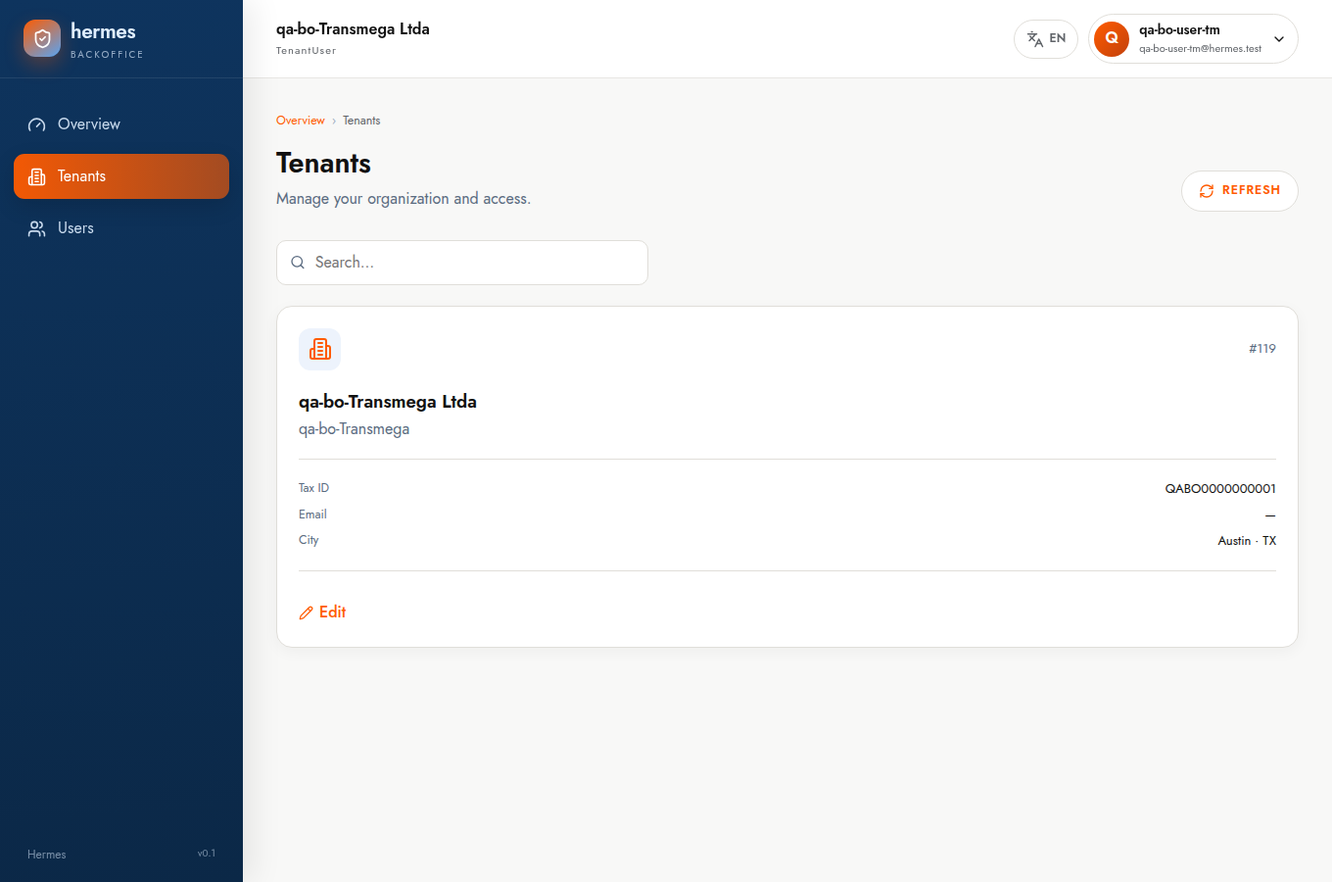
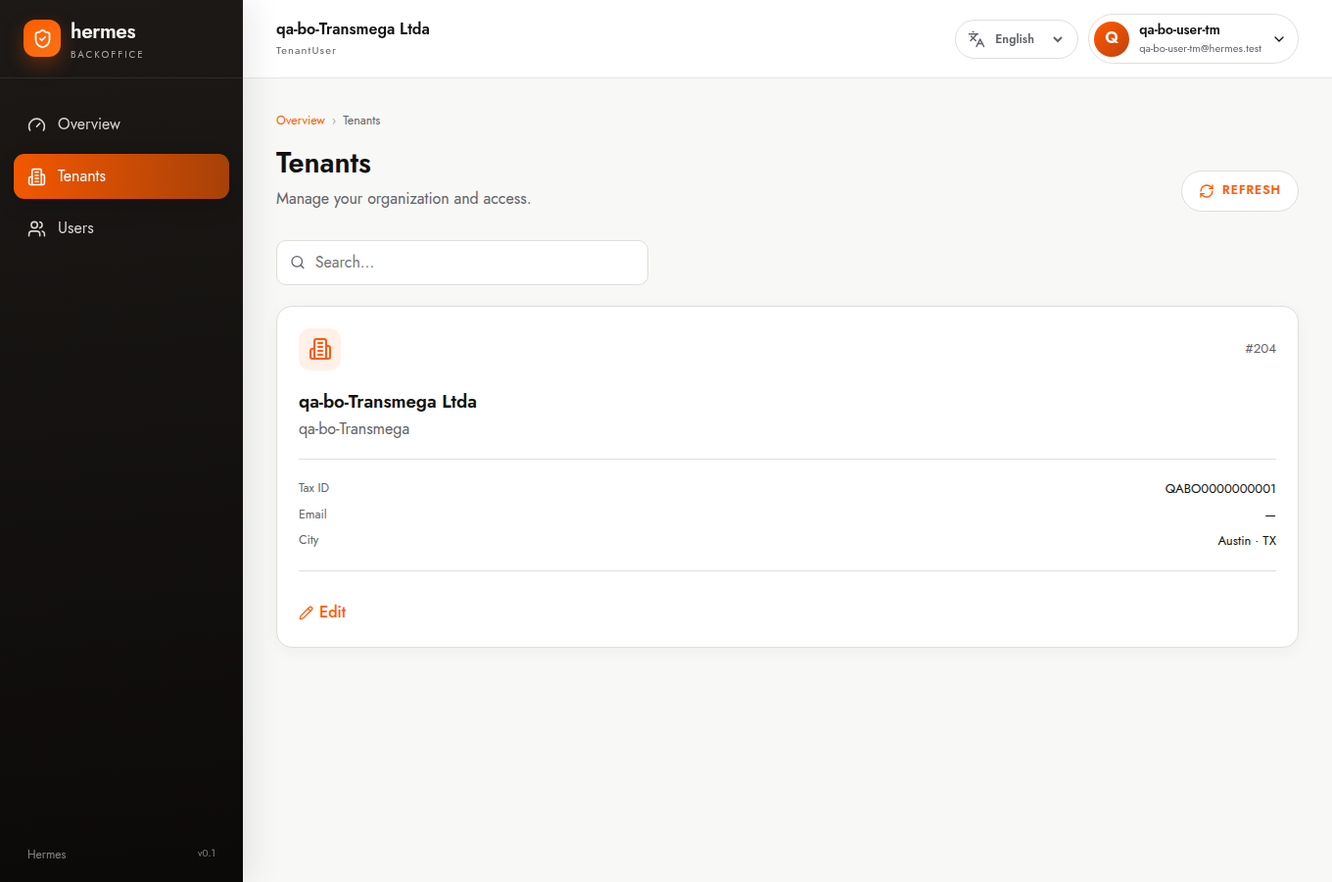
test(acceptance): correct stale scenarios and refresh Run 2 evidence
Re-ran all five acceptance suites against the post-fix build. Most Run 1
failures turned out to be stale tests: scenarios encoding pre-fix behaviour
that the accepted defect fixes deliberately reversed. Each is re-pointed at
the accepted design rather than deleted, so the property under test is
preserved.

foundation_acceptance.py
- XF-003/004/009/010: split the shared fixture. A probe now asserts the
  crafted cross-tenant tenantId create is refused with 400 and stores
  nothing (D-08); the real fixture is created with no tenantId.
- XF-020/021: `U = fx.userA or A` silently substituted the tenant owner
  into the role-guard matrix when the fixture was missing, manufacturing a
  false privilege-escalation reading. Now records BLOCKED with a reason.

identity_access_acceptance.py
- IA-015, IA-044, IA-063 re-pointed at the accepted DEF-IA-03/DEF-IA-08
  behaviour (PUT /user/{id} no longer sets a password; cross-tenant create
  is refused).

backoffice_acceptance.py
- BO-001: brand colours are now themeable CSS custom properties, so the
  literal hexes must survive as :root defaults. Search excludes the seed
  block; the Sass-var regex gained (?!-) so it stops matching $blue-dark.
- BO-051: globs src/**/*.test.ts(x) and matches route/landmark needles
  instead of component filenames, which DEF-BO-09 moved into
  pages/RoleSurfaces.test.tsx.

backoffice_walkthrough.cjs
- BO-013 asserts the DEF-BO-04 /users/new route guard.
[…]

Changed region(s): [[0.0, 0.0, 0.1853, 1.0], [0.7412, 0.0311, 0.8029, 0.0622], [0.9265, 0.3733, 0.9574, 0.4044]]

diff --git a/acceptance/foundation_acceptance.py b/acceptance/foundation_acceptance.py
@@ -252,19 +252,34 @@ def api_scenarios(fx):
            f"after DB-only reassignment to tenant B the SAME token sees tenant B rows={B['email'] in seen2} "
            f"-> scope {'follows token claims' if from_claims else 'is re-read from the database on every request (HRMS-001/PD-012 say claims alone, no lookup)'}")
 
-    # XF-003/004/009/010 -- owner A creates a tenant user while claiming tenant B,
-    # a fake uuid and fake audit fields in the payload.
+    # XF-003/004/009/010 -- owner A creates a tenant user with a fake uuid and
+    # fake audit fields in the payload.
+    #
+    # Updated 2026-09-19 for DEF-IA-08's accepted fix. This call used to also
+    # claim `tenantId` = B, and XF-004 asserted the claim was silently
+    # overwritten with A. DEF-IA-08 refuses that combination outright now, so
+    # the refusal is asserted on its own and the fixture is created the way the
+    # hierarchy allows. Otherwise the create fails, and with it XF-003/009/010
+    # and the tenant-user fixture that the XF-020/021 guard scenarios need --
+    # `U = fx.userA or A` quietly falls back to the *owner*, which then creates
+    # a user legitimately and reads as a privilege escalation that never
+    # happened.
     fake_uuid = str(uuid.uuid4())
+    claimed_b = http("POST", "/user", token=A["token"], body={
+        "email": f"{TAG}-user-bclaim@hermes.test", "name": "claim b", "role": "TenantUser",
+        "enabled": True, "tenantId": fx.tB})[0]
     s, _, u = http("POST", "/user", token=A["token"], body={
         "email": f"{TAG}-user-a@hermes.test", "name": "user a", "role": "TenantUser", "enabled": True,
-        "tenantId": fx.tB, "uuid": fake_uuid, "createdBy": "forged@evil", "updatedBy": "forged@evil",
+        "uuid": fake_uuid, "createdBy": "forged@evil", "updatedBy": "forged@evil",
         "createdAt": "2000-01-01T00:00:00"})
     fx.userA = None
     if s == 201:
         row = sql(f"SELECT tenant_id, created_by, updated_by, HEX(uuid), created_at FROM user WHERE id={u['id']}")[0]
-        check("XF-004", int(row[0]) == fx.tA,
-              f"POST /user as owner A with tenantId={fx.tB} -> 201, stored tenant_id={row[0]} (A)",
-              f"POST /user as owner A with tenantId={fx.tB} stored tenant_id={row[0]}")
+        claim_stored = sql(f"SELECT COUNT(*) FROM user WHERE email='{TAG}-user-bclaim@hermes.test'")[0][0]
+        check("XF-004", int(row[0]) == fx.tA and claimed_b == 400 and claim_stored == "0",
+              f"the tenant comes from the caller: stored tenant_id={row[0]} (A) with no tenantId in the payload; "
+              f"naming tenant {fx.tB} instead -> {claimed_b}, nothing stored (DEF-IA-08, D-08)",
+              f"stored tenant_id={row[0]}; naming tenant B -> {claimed_b}, rows stored {claim_stored}")
         check("XF-003", row[1] == A["email"] and row[2] == A["email"],
               f"row written deep in the persistence layer carries created_by/updated_by={row[1]} (the caller) with no identity in the payload path",
               f"created_by={row[1]} updated_by={row[2]}, expected {A['email']}")
@@ -320,39 +335,51 @@ def api_scenarios(fx):
           f"codes={codes}, old-password login={still}")
 
     # XF-020/021: role rules enforced by the API whatever the client shows
-    U = fx.userA or A
-    matrix = [
-        ("TenantUser POST /tenant", U, "POST", "/tenant", {"businessName": "x", "taxId": "1", "countryCode": "US"}),
-        ("TenantUser POST /user", U, "POST", "/user", {"email": f"{TAG}-x1@hermes.test", "role": "TenantUser", "enabled": True}),
-        ("TenantUser GET /business-plan", U, "GET", "/business-plan", None),
-        ("TenantOwner POST /tenant", A, "POST", "/tenant", {"businessName": "x", "taxId": "1", "countryCode": "US"}),
-        ("TenantOwner POST /business-plan", A, "POST", "/business-plan",
-         {"name": f"{TAG}-plan", "priceInCents": 1, "availableUsers": 1, "periodDays": 30,
-          "paymentDate": "2026-10-01"}),
-        ("TenantOwner GET /business-plan", A, "GET", "/business-plan", None),
-        ("TenantOwner POST /province", A, "POST", "/province", {"acronym": "QZ", "name": "x", "countryCode": "US"}),
-        ("TenantOwner POST /city", A, "POST", "/city", {"provinceId": 1, "name": f"{TAG}-city"}),
-        ("TenantOwner POST /tenant/{A}/plan", A, "POST", f"/tenant/{fx.tA}/plan", {"businessPlanId": 1}),
-    ]
-    got = {name: http(m, p, body=b, token=who["token"])[0] for name, who, m, p, b in matrix}
-    check("XF-020", all(c in (403, 404) for c in got.values()),
-          "every out-of-role call refused server-side: " + ", ".join(f"{k}={v}" for k, v in got.items()),
-          "out-of-role call accepted: " + ", ".join(f"{k}={v}" for k, v in got.items()))
-    esc = {
-        "owner creates SysAdmin": http("POST", "/user", token=A["token"], body={
-            "email": f"{TAG}-esc1@hermes.test", "role": "SysAdmin", "enabled": True})[0],
-        "owner creates TenantOwner": http("POST", "/user", token=A["token"], body={
-            "email": f"{TAG}-esc2@hermes.test", "role": "TenantOwner", "enabled": True, "tenantId": fx.tA})[0],
-        "user creates TenantUser": http("POST", "/user", token=U["token"], body={
-            "email": f"{TAG}-esc3@hermes.test", "role": "TenantUser", "enabled": True})[0],
-    }
-    http("PUT", f"/user/{A['id']}", token=A["token"], body={
-        "email": A["email"], "name": "owner-a", "role": "SysAdmin", "enabled": True, "tenantId": None})
-    role_after = sql(f"SELECT role, tenant_id FROM user WHERE id={A['id']}")[0]
-    leaked = sql(f"SELECT COUNT(*) FROM user WHERE email LIKE '{TAG}-esc%' OR email LIKE '{TAG}-x1%'")[0][0]
-    check("XF-021", all(c == 403 for c in esc.values()) and role_after == ["TenantOwner", str(fx.tA)] and leaked == "0",
-          f"privilege escalation refused: {esc}; owner self-promotion to SysAdmin via PUT left role={role_after[0]}",
-          f"escalation results={esc}, owner row after self-promotion={role_after}, leaked rows={leaked}")
+    #
+    # `fx.userA or A` used to stand in here when the tenant-user fixture was
+    # missing. That is the worst possible substitute: every "TenantUser ..."
+    # row below then describes the *owner's* rights, so "TenantUser POST /user"
+    # answers 201 legitimately and XF-020/021 report a privilege escalation
+    # that never happened. Report the missing fixture instead.
+    U = fx.userA
+    if U is None:
+        for sid in ("XF-020", "XF-021"):
+            record(sid, "BLOCKED", "no tenant-user fixture: POST /user did not create one, and the "
+                                   "owner must not stand in for a tenant user in a role-guard matrix")
+        U = A
+    else:
+        matrix = [
+            ("TenantUser POST /tenant", U, "POST", "/tenant", {"businessName": "x", "taxId": "1", "countryCode": "US"}),
+            ("TenantUser POST /user", U, "POST", "/user", {"email": f"{TAG}-x1@hermes.test", "role": "TenantUser", "enabled": True}),
+            ("TenantUser GET /business-plan", U, "GET", "/business-plan", None),
+            ("TenantOwner POST /tenant", A, "POST", "/tenant", {"businessName": "x", "taxId": "1", "countryCode": "US"}),
+            ("TenantOwner POST /business-plan", A, "POST", "/business-plan",
+             {"name": f"{TAG}-plan", "priceInCents": 1, "availableUsers": 1, "periodDays": 30,
+              "paymentDate": "2026-10-01"}),
+            ("TenantOwner GET /business-plan", A, "GET", "/business-plan", None),
+            ("TenantOwner POST /province", A, "POST", "/province", {"acronym": "QZ", "name": "x", "countryCode": "US"}),
+            ("TenantOwner POST /city", A, "POST", "/city", {"provinceId": 1, "name": f"{TAG}-city"}),
+            ("TenantOwner POST /tenant/{A}/plan", A, "POST", f"/tenant/{fx.tA}/plan", {"businessPlanId": 1}),
+        ]
+        got = {name: http(m, p, body=b, token=who["token"])[0] for name, who, m, p, b in matrix}
+        check("XF-020", all(c in (403, 404) for c in got.values()),
+              "every out-of-role call refused server-side: " + ", ".join(f"{k}={v}" for k, v in got.items()),
+              "out-of-role call accepted: " + ", ".join(f"{k}={v}" for k, v in got.items()))
+        esc = {
+            "owner creates SysAdmin": http("POST", "/user", token=A["token"], body={
+                "email": f"{TAG}-esc1@hermes.test", "role": "SysAdmin", "enabled": True})[0],
+            "owner creates TenantOwner": http("POST", "/user", token=A["token"], body={
+                "email": f"{TAG}-esc2@hermes.test", "role": "TenantOwner", "enabled": True, "tenantId": fx.tA})[0],
+            "user creates TenantUser": http("POST", "/user", token=U["token"], body={
+                "email": f"{TAG}-esc3@hermes.test", "role": "TenantUser", "enabled": True})[0],
+        }
+        http("PUT", f"/user/{A['id']}", token=A["token"], body={
+            "email": A["email"], "name": "owner-a", "role": "SysAdmin", "enabled": True, "tenantId": None})
+        role_after = sql(f"SELECT role, tenant_id FROM user WHERE id={A['id']}")[0]
+        leaked = sql(f"SELECT COUNT(*) FROM user WHERE email LIKE '{TAG}-esc%' OR email LIKE '{TAG}-x1%'")[0][0]
+        check("XF-021", all(c == 403 for c in esc.values()) and role_after == ["TenantOwner", str(fx.tA)] and leaked == "0",
+              f"privilege escalation refused: {esc}; owner self-promotion to SysAdmin via PUT left role={role_after[0]}",
+              f"escalation results={esc}, owner row after self-promotion={role_after}, leaked rows={leaked}")
 
     # XF-023: roles are a closed named set carried in the token
     roles = {jwt_payload(t)["role"] for t in (adm["token"], A["token"], U["token"])}

diff --git a/acceptance/identity_access_acceptance.py b/acceptance/identity_access_acceptance.py
@@ -349,12 +349,31 @@ def hierarchy(fx):
           f"owner A's list shows the new users; the tenant user activated, signed in (role TenantUser, tenant {fx.tA}) and reads its tenant (200)",
           f"list {s_list} {sorted(seen)}; claims {c}; GET own tenant -> {st}")
 
-    # IA-015 -- the tenant comes from the owner, not the payload
+    # IA-015 -- the tenant comes from the owner, and a payload naming a
+    # different one is refused rather than reinterpreted.
+    #
+    # Updated 2026-09-19 for DEF-IA-08's accepted fix. This scenario used to
+    # assert the silent overwrite (201, stored as A). That is exactly the
+    # behaviour DEF-IA-08 removed: reinterpreting an impossible combination
+    # answered 201 to something the caller never asked for (D-08 "impossible by
+    # design"). The rule is unchanged -- the tenant still comes from the owner,
+    # never the payload -- only the answer to naming a different one.
     s, u = mk_user(fx, A["token"], "user-a3", "TenantUser", fx.tB)
     t = sql(f"SELECT IFNULL(tenant_id,'NULL') FROM user WHERE email='{em('user-a3')}'")
-    check("IA-015", s == 201 and t == [[str(fx.tA)]],
-          f"owner A POST /user with tenantId={fx.tB} (B) -> 201, stored in tenant A ({fx.tA})",
+    check("IA-015", s == 400 and t == [],
+          f"owner A POST /user with tenantId={fx.tB} (B) -> 400, nothing stored (DEF-IA-08, D-08)",
           f"-> {s} {u}; stored tenant {t}")
+
+    # ...and then the same account created the way the hierarchy allows, so the
+    # session scenarios below have a tenant user of A to work with. Before the
+    # DEF-IA-08 fix the refused call above created it as a side effect; now it
+    # correctly creates nothing, so the fixture has to be made on purpose.
+    # Failing loudly here beats letting activate() raise 200 lines later and
+    # take every remaining story down as BLOCKED.
+    s3, u3 = mk_user(fx, A["token"], "user-a3", "TenantUser")
+    t3 = sql(f"SELECT IFNULL(tenant_id,'NULL') FROM user WHERE email='{em('user-a3')}'")
+    if s3 != 201 or t3 != [[str(fx.tA)]]:
+        raise RuntimeError(f"fixture user-a3 could not be created: -> {s3} {u3}; stored tenant {t3}")
 
     # IA-016 -- combinations outside the hierarchy
     combos = {
@@ -687,11 +706,21 @@ def sessions(fx):
           f"refresh claim {cr.get('uuid')}, refreshed {cn.get('uuid')}, user {me.get('uuid')}")
 
     # IA-044 -- minimum length (8) on every API path that sets a password
+    #
+    # Updated 2026-09-19 for DEF-IA-03's accepted fix. `PUT /user/{id}` used to
+    # be a third password-setting path and this scenario checked that it too
+    # refused 7 characters. DEF-IA-03 removed password-setting from that route
+    # entirely -- anyone holding a 3-hour access token could otherwise replace
+    # an account's password without knowing the current one -- so exactly two
+    # paths remain. The route is still exercised here, for the stronger
+    # property that it now *ignores* a password rather than validating one.
     s_n, u_n = mk_user(fx, A["token"], "user-a5", "TenantUser")
     short = "Ab#4567"   # 7 characters
+    hash_before = pw_hash(em("user-a5"))
+    put_status = http("PUT", f"/user/{u_n['id']}", token=A["token"], body={
+        "email": em("user-a5"), "name": "user-a5", "role": "TenantUser", "enabled": True, "password": short})[0]
+    put_ignored = pw_hash(em("user-a5")) == hash_before
     res = {
-        "PUT /user/{id} reset": http("PUT", f"/user/{u_n['id']}", token=A["token"], body={
-            "email": em("user-a5"), "name": "user-a5", "role": "TenantUser", "enabled": True, "password": short})[0],
         "POST /accept-invite": http("POST", "/accept-invite", body={
             "token": mint_invite(em("user-a5"), pw_hash(em("user-a5")), fx.secret), "newPassword": short})[0],
     }
@@ -700,9 +729,12 @@ def sessions(fx):
         "currentPassword": "Ab#45678", "newPassword": short})[0]
     still = login(em("user-a5"), "Ab#45678")[0]
     short_in = login(em("user-a5"), short)[0]
-    check("IA-044", all(v == 400 for v in res.values()) and still == 200 and short_in == 401,
-          f"7-char password refused on {res}; 8-char accepted at the boundary; the account keeps its 8-char password",
-          f"statuses {res}; 8-char login {still}; 7-char login {short_in}")
+    check("IA-044", all(v == 400 for v in res.values()) and still == 200 and short_in == 401 and put_ignored,
+          f"7-char password refused on {res}; PUT /user/{{id}} ignored it entirely "
+          f"({put_status}, stored hash unchanged -- DEF-IA-03); 8-char accepted at the boundary; "
+          f"the account keeps its 8-char password",
+          f"statuses {res}; PUT reset {put_status}, hash unchanged={put_ignored}; "
+          f"8-char login {still}; 7-char login {short_in}")
 
     # IA-050 -- change own password; identity from the token only
     h_a2 = pw_hash(A2["email"])
@@ -840,17 +872,25 @@ def invitations(fx):
           f"created and invited but the invitation is refused, so the invitee can never get in")
 
     # IA-063 -- a password set by other means kills the outstanding invitation; no invitation table
+    #
+    # Updated 2026-09-19 for DEF-IA-03's accepted fix. The "other means" used to
+    # be an owner resetting the password through `PUT /user/{id}`; that route no
+    # longer sets a password at all, so the property is exercised through the
+    # route that does. The property itself is unchanged and is the reason there
+    # is no invitation table: an invitation is signed with the password hash it
+    # was issued against, so any later password change invalidates it.
     s3, u3 = mk_user(fx, A["token"], "inv-3", "TenantUser")
-    inv3 = mint_invite(em("inv-3"), pw_hash(em("inv-3")), fx.secret)
-    s_reset = http("PUT", f"/user/{u3['id']}", token=A["token"], body={
-        "email": em("inv-3"), "name": "inv-3", "role": "TenantUser", "enabled": True, "password": "QaAdminSet#2026"})[0]
-    after = http("POST", "/accept-invite", body={"token": inv3, "newPassword": "QaLateAccept#2026"})[0]
+    holder = activate(fx, em("inv-3"), "QaInvThree#2026")
+    outstanding = mint_invite(em("inv-3"), pw_hash(em("inv-3")), fx.secret)
+    s_reset = http("PUT", "/user/change-password", token=holder["token"], body={
+        "currentPassword": "QaInvThree#2026", "newPassword": "QaAdminSet#2026"})[0]
+    after = http("POST", "/accept-invite", body={"token": outstanding, "newPassword": "QaLateAccept#2026"})[0]
     tables = [r[0] for r in sql("SHOW TABLES")]
     inv_tables = [t for t in tables if "invit" in t.lower() or "invite" in t.lower() or "token" in t.lower()]
     check("IA-063", s_reset == 200 and after == 400 and login(em("inv-3"), "QaAdminSet#2026")[0] == 200 and not inv_tables,
-          f"password set by the owner (PUT -> {s_reset}) -> the earlier invitation -> {after}; after acceptance the link is "
-          f"dead too (IA-062); no invitation/token table in {tables}",
-          f"reset {s_reset}; stale invite -> {after}; invitation tables {inv_tables}")
+          f"password changed by its holder (change-password -> {s_reset}) -> the outstanding invitation -> {after}; "
+          f"after acceptance the link is dead too (IA-062); no invitation/token table in {tables}",
+          f"change-password {s_reset}; stale invite -> {after}; invitation tables {inv_tables}")
 
     # IA-064 -- a newer invitation supersedes the older one
     s_doc, doc = http("GET", "/api-docs/openapi.json")

diff --git a/acceptance/backoffice_acceptance.py b/acceptance/backoffice_acceptance.py
@@ -196,14 +196,23 @@ def api_checks(fx):
 # ---------------------------------------------------------------- static half
 def static_checks():
     scss = open(os.path.join(BO, "src", "styles", "main.scss")).read()
-    # a Sass brand variable read directly (not a definition, not a `#{$x}` custom-property seed) is baked in at build time
-    sass_vars = re.findall(r"[:\s]\$(blue|navy|body|line|bg|yellow)\b(?!\s*:)", scss)
-    hex_literals = sorted(set(re.findall(r"#(?:0e345e|0b2847|103f71|1768bc|0b2d50|124f8e|59a4f2|edf3fc|eaf3ff|e6f0fd|79b7f4)\b", scss)))
+    # DEF-BO-01 (revised 2026-09-19): the fix makes every brand colour a runtime
+    # custom property, which means the literal blues *must* still appear once --
+    # as the default value of each variable in the `:root` seed block. Forbidding
+    # the hex anywhere in the file made the fixed state impossible to pass. What
+    # the story actually asks is that nothing *paints* with a literal brand blue,
+    # so look only outside the seed block.
+    seed = re.search(r":root\s*\{.*?\n\}", scss, re.S)
+    painted = scss[:seed.start()] + scss[seed.end():] if seed else scss
+    # `(?!-)` keeps the `$blue-dark` definition from reading as a use of `$blue`
+    sass_vars = re.findall(r"[:\s]\$(blue|navy|body|line|bg|yellow)\b(?!-)(?!\s*:)", painted)
+    hex_literals = sorted(set(re.findall(r"#(?:0e345e|0b2847|103f71|1768bc|0b2d50|124f8e|59a4f2|edf3fc|eaf3ff|e6f0fd|79b7f4)\b", painted)))
     built = glob.glob(os.path.join(BO, "dist", "assets", "*.css"))
     var_refs = sum(open(f).read().count("var(--accent-primary)") for f in built)
     record("BO-001", "static", not sass_vars and not hex_literals,
-           f"Sass brand vars read directly={sass_vars}; var(--accent-primary) in dist css={var_refs}; "
-           f"hard-coded brand blues still in main.scss={hex_literals}")
+           f"Sass brand vars painted directly={sass_vars or 'none'}; var(--accent-primary) in dist css={var_refs}; "
+           f"brand blues painted outside the :root seed={hex_literals or 'none'} "
+           f"({len(re.findall(r'#(?:0e345e|0b2847|103f71|1768bc|0b2d50|124f8e|59a4f2|edf3fc|eaf3ff|e6f0fd|79b7f4)', seed.group(0) if seed else ''))} kept as themeable defaults)")
 
     root = os.path.join(REPO, "Design-default.md")
     arch = os.path.join(REPO, "docs", "archive", "Design-default.md")
@@ -219,16 +228,30 @@ def static_checks():
     record("BO-050", "static", t.returncode == 0 and c.returncode == 0 and "tsc -b --noEmit" in ci and "npm test" in ci,
            f"vitest exit={t.returncode} ({m.group(0) if m else 'no summary'}); tsc -b exit={c.returncode}; "
            f"frontend-ci runs tsc -b + npm test={'tsc -b --noEmit' in ci and 'npm test' in ci}")
-    covered = {name: os.path.exists(os.path.join(BO, "src", *name.split("/"))) for name in (
-        "App.test.tsx", "pages/ManagementPages.test.tsx", "pages/SystemSettingsPage.test.tsx")}
-    tests = "".join(open(os.path.join(BO, "src", *n.split("/"))).read() for n, e in covered.items() if e)
-    gaps = [label for label, needle in (("Shell nav: Plans / System settings per role", "systemSettings"),
-                                         ("Dashboard plan card per role", "DashboardPage"),
-                                         ("Tenants page: New tenant / Subscription per role", "TenantsPage"),
-                                         ("/system-settings route guard", "/system-settings"),
-                                         ("Users page: New user per role", "UsersPage"),
+    # DEF-BO-09 (revised 2026-09-19): this used to read three named test files,
+    # so the fix -- which put the six surfaces in a *new* file,
+    # `pages/RoleSurfaces.test.tsx` -- could not be seen. The story asks that
+    # each surface be covered somewhere, not in a particular file, so read every
+    # test the console has.
+    #
+    # The needles were component filenames (`DashboardPage`, `TenantsPage`,
+    # `UsersPage`), which only matched tests that import a page directly. The
+    # fix's tests render the real `App` at a route instead -- a stronger test,
+    # because it exercises the router and shell the operator actually meets.
+    # Match the route or landmark each surface lives at, which is the
+    # user-visible contract, rather than how the test happens to reach it.
+    test_files = sorted(glob.glob(os.path.join(BO, "src", "**", "*.test.tsx"), recursive=True)
+                        + glob.glob(os.path.join(BO, "src", "**", "*.test.ts"), recursive=True))
+    tests = "".join(open(f).read() for f in test_files)
+    gaps = [label for label, needle in (("Shell nav: Plans / System settings per role", ".sidebar nav"),
+                                         ("Dashboard plan card per role", "plan count card"),
+                                         ("Tenants page: New tenant / Subscription per role", "'/tenants'"),
+                                         ("/system-settings route guard", "'/system-settings'"),
+                                         ("Users page: New user per role", "'/users'"),
                                          ("Subscription page renders a plan", "SubscriptionPage")) if needle not in tests]
-    record("BO-051", "static", not gaps, f"role-conditional surfaces with no test: {gaps or 'none'}")
+    record("BO-051", "static", not gaps,
+           f"role-conditional surfaces with no test: {gaps or 'none'} "
+           f"(searched {len(test_files)} test files)")
 
 
 # ---------------------------------------------------------------- ui half

diff --git a/acceptance/tenancy_plans_acceptance.py b/acceptance/tenancy_plans_acceptance.py
@@ -659,9 +659,17 @@ def epic_04(fx):
     schemas = [k for k in fx.openapi.get("components", {}).get("schemas", {}) if "tenantplan" in k.lower().replace("_", "")
                and k != "SetTenantPlanJson"]
     s, _ = http("GET", "/tenant-plan", token=adm)
-    check("TP-062", tbl == "0" and paths == ["/tenant/{id}/plan"] and not schemas and s == 404,
-          f"no tenant_plan table; only tenant plan path {paths}; no TenantPlan schema; /tenant-plan {s}",
-          f"tables={tbl}; paths={paths}; schemas={schemas}; /tenant-plan {s}")
+    # The story is that a subscription is *not* a resource of its own: no
+    # tenant_plan table, no TenantPlan schema, no /tenant-plan endpoint -- the
+    # current plan is reached only as a sub-resource of a tenant. This used to
+    # pin the exact list `["/tenant/{id}/plan"]`, so the UUID-addressed alias
+    # added for HRMS-204, `/tenant/uuid/{uuid}/plan`, read as a violation even
+    # though it is the same sub-resource reached by the public identifier.
+    # Assert the shape instead of the literal path list.
+    standalone = [p for p in paths if not re.match(r"^/tenant/(uuid/\{uuid\}|\{id\})/plan$", p)]
+    check("TP-062", tbl == "0" and paths and not standalone and not schemas and s == 404,
+          f"no tenant_plan table; the plan is only a sub-resource of a tenant {paths}; no TenantPlan schema; /tenant-plan {s}",
+          f"tables={tbl}; paths={paths}; standalone={standalone}; schemas={schemas}; /tenant-plan {s}")
 
     res = []
     for who, tok in (("owner A", fx.ownerA["token"]), ("user A", fx.userA["token"])):

diff --git a/acceptance/reference_data_acceptance.py b/acceptance/reference_data_acceptance.py
@@ -653,15 +653,19 @@ def ui_scenarios():
     env = dict(os.environ, QA_OWNER_EMAIL=f"{TAG}-owner@hermes.test", QA_OWNER_PASSWORD=FIXTURE_PW)
     p = subprocess.run(["node", script], capture_output=True, text=True, timeout=600, env=env)
     print("  " + (p.stderr.strip().splitlines() or [""])[-1])
-    found = False
+    seen = set()
     for line in p.stdout.splitlines():
         if line.startswith("{"):
             r = json.loads(line)
             record(r["id"], r["status"], r["evidence"])
-            found = True
-    if not found:
-        for sid in ("RD-031", "RD-052", "RD-053", "RD-054"):
-            record(sid, "BLOCKED", f"UI script did not run: {(p.stdout + p.stderr)[-300:]}")
+            seen.add(r["id"])
+    # The UI script's `finally` prints the screenshot path, so the last stderr
+    # line above hides any exception. A scenario the script never reached used
+    # to vanish as "NOT RUN" with no reason; report it with the actual error.
+    missing = [s for s in ("RD-031", "RD-052", "RD-053", "RD-054") if s not in seen]
+    why = (p.stderr.strip() or p.stdout.strip())[-600:]
+    for sid in missing:
+        record(sid, "BLOCKED", f"UI script did not report this scenario ({'ran others' if seen else 'did not run'}): {why}")
 
 
 # ---------------------------------------------------------------- main
